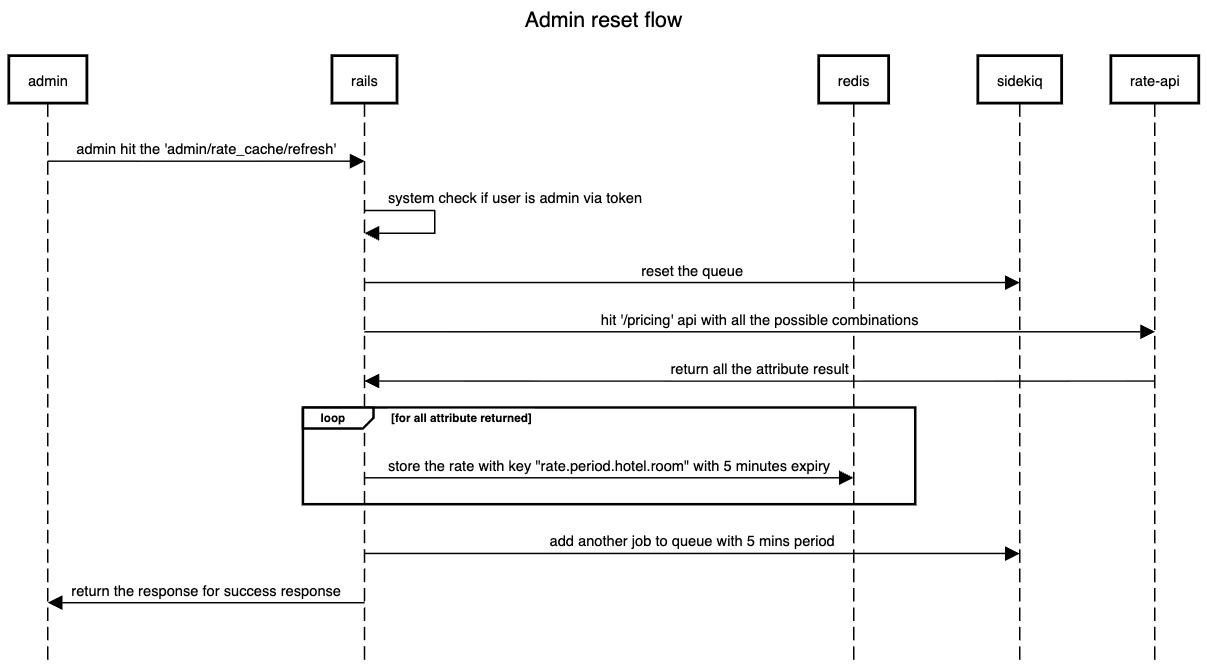
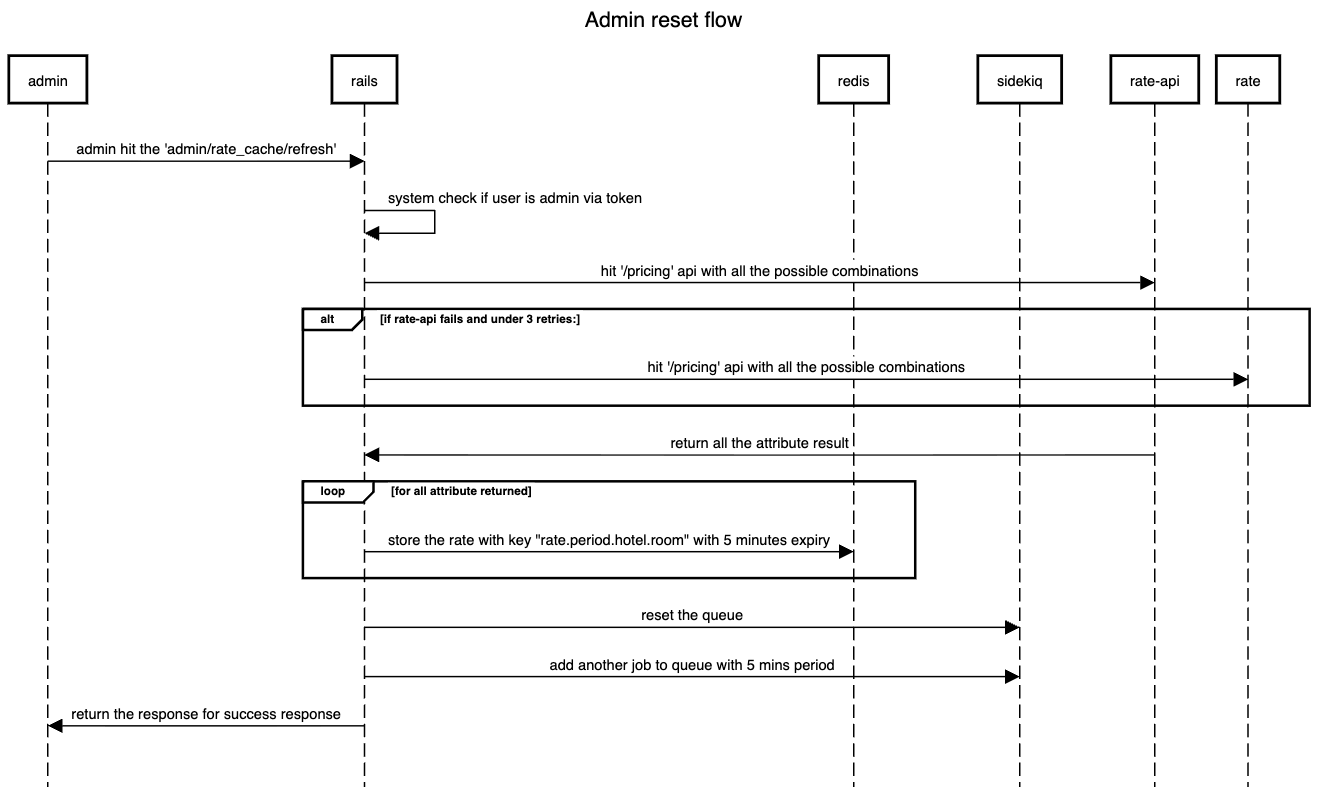
feat(pricing): add retries for the admin refresh path if the api fails

diff --git a/app/controllers/admin/rate_cache_controller.rb b/app/controllers/admin/rate_cache_controller.rb
@@ -4,15 +4,31 @@ module Admin
   class RateCacheController < ApplicationController
     include AdminTokenAuthenticatable
 
+    MAX_RETRIES = 3
+    
     def refresh
       Rails.logger.info("[Admin::RateCacheController] Begin Resetting Rate Cache")
+      
+      retries = 0
+      begin
+        RateCacheService.new.set_rate
+      rescue StandardError => e
+        retries += 1
+        if retries < MAX_RETRIES
+          Rails.logger.warn("[Admin::RateCacheController] RateCacheService.set_rate failed (Attempt #{retries}/#{MAX_RETRIES}). Retrying in 1 second... Error: #{e.message}")
+          sleep 1
+          retry
+        else
+          Rails.logger.error("[Admin::RateCacheController] RateCacheService.set_rate failed after #{MAX_RETRIES} attempts. Error: #{e.message}")
+          raise e
+        end
+      end
+
+      Rails.logger.info("[Admin::RateCacheController] Resetting Cache Completed, now Resetting Queues")
       # Reset the Queue
       Sidekiq::Queue.new.clear
       Sidekiq::ScheduledSet.new.clear
       Sidekiq::RetrySet.new.clear
-      
-      Rails.logger.info("[Admin::RateCacheController] Sidekiq queues cleared, Now Reseting Rate Cache")
-      RateCacheService.new.set_rate
       
       Rails.logger.info("[Admin::RateCacheController] Rate Cache Reset, Scheduling Next Run")
       RateCacheWorker.perform_in(5.minutes)

diff --git a/test/controllers/admin/rate_cache_controller_test.rb b/test/controllers/admin/rate_cache_controller_test.rb
@@ -62,4 +62,26 @@ class Admin::RateCacheControllerTest < ActionDispatch::IntegrationTest
       assert_match /Sidekiq error/, json_response["error"]
     end
   end
+
+  test "should retry up to 3 times before failing if set_rate raises an error" do
+    call_count = 0
+    RateCacheService.stub :new, -> do
+      mock = Object.new
+      mock.define_singleton_method(:set_rate) do
+        call_count += 1
+        raise StandardError.new("API Error")
+      end
+      mock
+    end do
+      Kernel.stub(:sleep, nil) do
+        post admin_rate_cache_refresh_url, headers: { "Authorization" => "Token #{@admin_token}" }
+      end
+    end
+
+    assert_response :internal_server_error
+    assert_equal 3, call_count
+    
+    json_response = JSON.parse(response.body)
+    assert_match /API Error/, json_response["error"]
+  end
 end
